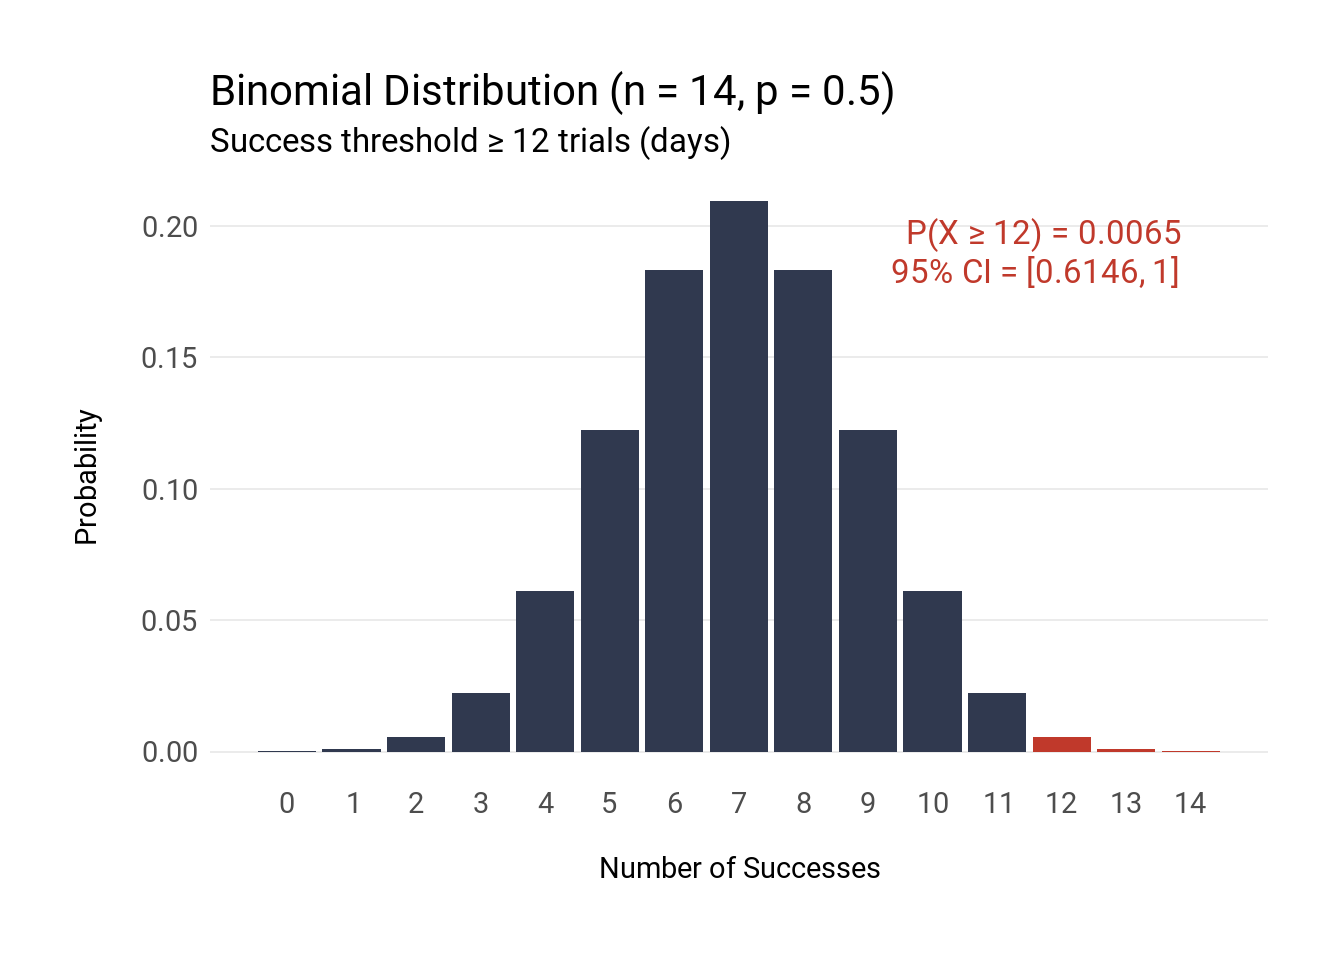
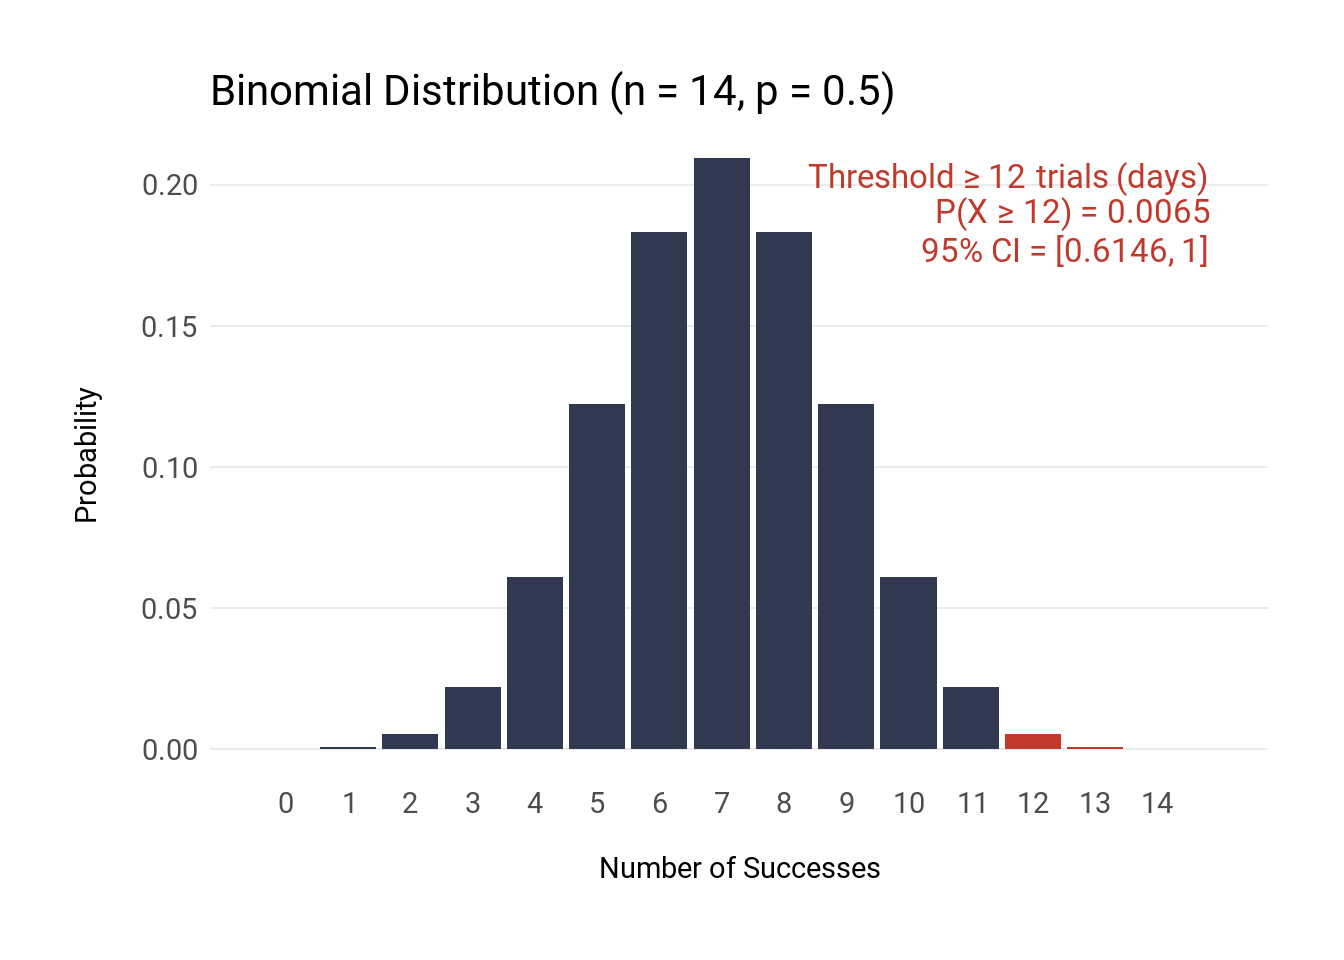
removed subtitle from visual

diff --git a/fordjohnson.dev/docs/notes/binomial-trend-detection/index.html b/fordjohnson.dev/docs/notes/binomial-trend-detection/index.html
@@ -255,32 +255,31 @@ probability of success
 <span id="cb3-31"><a href="#cb3-31" aria-hidden="true" tabindex="-1"></a>  <span class="fu">scale_x_continuous</span>(<span class="at">breaks =</span> <span class="dv">0</span><span class="sc">:</span>n) <span class="sc">+</span>  </span>
 <span id="cb3-32"><a href="#cb3-32" aria-hidden="true" tabindex="-1"></a>  <span class="fu">labs</span>(</span>
 <span id="cb3-33"><a href="#cb3-33" aria-hidden="true" tabindex="-1"></a>    <span class="at">title =</span> <span class="st">"Binomial Distribution (n = 14, p = 0.5)"</span>,</span>
-<span id="cb3-34"><a href="#cb3-34" aria-hidden="true" tabindex="-1"></a>    <span class="at">subtitle =</span> <span class="st">"Success threshold ≥ 12 trials (days)"</span>,</span>
-<span id="cb3-35"><a href="#cb3-35" aria-hidden="true" tabindex="-1"></a>    <span class="at">x =</span> <span class="st">"Number of Successes"</span>,</span>
-<span id="cb3-36"><a href="#cb3-36" aria-hidden="true" tabindex="-1"></a>    <span class="at">y =</span> <span class="st">"Probability"</span></span>
-<span id="cb3-37"><a href="#cb3-37" aria-hidden="true" tabindex="-1"></a>  ) <span class="sc">+</span></span>
-<span id="cb3-38"><a href="#cb3-38" aria-hidden="true" tabindex="-1"></a>  <span class="fu">theme_minimal</span>() <span class="sc">+</span></span>
-<span id="cb3-39"><a href="#cb3-39" aria-hidden="true" tabindex="-1"></a>  <span class="fu">theme</span>(</span>
-<span id="cb3-40"><a href="#cb3-40" aria-hidden="true" tabindex="-1"></a>    <span class="at">panel.grid.major.x =</span> <span class="fu">element_blank</span>(),</span>
-<span id="cb3-41"><a href="#cb3-41" aria-hidden="true" tabindex="-1"></a>    <span class="at">panel.grid.minor =</span> <span class="fu">element_blank</span>(),</span>
-<span id="cb3-42"><a href="#cb3-42" aria-hidden="true" tabindex="-1"></a>    <span class="at">plot.margin =</span> <span class="fu">margin</span>(<span class="dv">10</span>, <span class="dv">10</span>, <span class="dv">10</span>, <span class="dv">10</span>, <span class="st">"mm"</span>),</span>
-<span id="cb3-43"><a href="#cb3-43" aria-hidden="true" tabindex="-1"></a>    <span class="at">axis.text =</span> <span class="fu">element_text</span>(<span class="at">family =</span> font_1, <span class="at">size =</span> <span class="dv">7</span>),</span>
-<span id="cb3-44"><a href="#cb3-44" aria-hidden="true" tabindex="-1"></a>    <span class="at">axis.title =</span> <span class="fu">element_text</span>(<span class="at">family =</span> font_1, <span class="at">size =</span> <span class="dv">7</span>),</span>
-<span id="cb3-45"><a href="#cb3-45" aria-hidden="true" tabindex="-1"></a>    <span class="at">axis.title.x =</span> <span class="fu">element_text</span>(<span class="at">margin =</span> <span class="fu">margin</span>(<span class="dv">5</span>, <span class="dv">0</span>, <span class="dv">0</span>, <span class="dv">0</span>, <span class="st">'mm'</span>)),</span>
-<span id="cb3-46"><a href="#cb3-46" aria-hidden="true" tabindex="-1"></a>    <span class="at">axis.title.y =</span> <span class="fu">element_text</span>(<span class="at">margin =</span> <span class="fu">margin</span>(<span class="dv">0</span>, <span class="dv">5</span>, <span class="dv">0</span>, <span class="dv">0</span>, <span class="st">'mm'</span>)),</span>
-<span id="cb3-47"><a href="#cb3-47" aria-hidden="true" tabindex="-1"></a>    <span class="at">plot.title =</span> <span class="fu">element_text</span>(<span class="at">family =</span> font_1, <span class="at">size =</span> <span class="dv">10</span>),</span>
-<span id="cb3-48"><a href="#cb3-48" aria-hidden="true" tabindex="-1"></a>    <span class="at">plot.subtitle =</span> <span class="fu">element_text</span>(<span class="at">family =</span> font_1, <span class="at">size =</span> <span class="dv">8</span>)</span>
-<span id="cb3-49"><a href="#cb3-49" aria-hidden="true" tabindex="-1"></a>  ) <span class="sc">+</span></span>
-<span id="cb3-50"><a href="#cb3-50" aria-hidden="true" tabindex="-1"></a>  <span class="fu">annotate</span>(</span>
-<span id="cb3-51"><a href="#cb3-51" aria-hidden="true" tabindex="-1"></a>    <span class="at">geom =</span> <span class="st">'richtext'</span>,</span>
-<span id="cb3-52"><a href="#cb3-52" aria-hidden="true" tabindex="-1"></a>    <span class="at">x =</span> n,</span>
-<span id="cb3-53"><a href="#cb3-53" aria-hidden="true" tabindex="-1"></a>    <span class="at">y =</span> <span class="fu">max</span>(data<span class="sc">$</span>probability) <span class="sc">*</span> <span class="fl">0.9</span>,</span>
-<span id="cb3-54"><a href="#cb3-54" aria-hidden="true" tabindex="-1"></a>    <span class="at">label =</span> <span class="fu">paste0</span>(</span>
-<span id="cb3-55"><a href="#cb3-55" aria-hidden="true" tabindex="-1"></a>      <span class="st">"&lt;span style='color:#C0392B; font-size:8pt;font-family:Roboto;'&gt;"</span>,</span>
-<span id="cb3-56"><a href="#cb3-56" aria-hidden="true" tabindex="-1"></a>      <span class="st">"P(X ≥ "</span>, x_obs, <span class="st">") = "</span>, <span class="fu">round</span>(p_ge_x_obs, <span class="dv">4</span>), <span class="st">"&lt;br&gt;"</span>,</span>
-<span id="cb3-57"><a href="#cb3-57" aria-hidden="true" tabindex="-1"></a>      <span class="st">"95% CI = ["</span>, <span class="fu">round</span>(conf_int[<span class="dv">1</span>], <span class="dv">4</span>), <span class="st">", "</span>, <span class="fu">round</span>(conf_int[<span class="dv">2</span>], <span class="dv">4</span>), <span class="st">"]&lt;/span&gt;"</span>),</span>
-<span id="cb3-58"><a href="#cb3-58" aria-hidden="true" tabindex="-1"></a>    <span class="at">hjust =</span> <span class="dv">1</span>, <span class="at">fill =</span> <span class="cn">NA</span>, <span class="at">label.color =</span> <span class="cn">NA</span></span>
-<span id="cb3-59"><a href="#cb3-59" aria-hidden="true" tabindex="-1"></a>  )</span></code><button title="Copy to Clipboard" class="code-copy-button"><i class="bi"></i></button></pre></div>
+<span id="cb3-34"><a href="#cb3-34" aria-hidden="true" tabindex="-1"></a>    <span class="at">x =</span> <span class="st">"Number of Successes"</span>,</span>
+<span id="cb3-35"><a href="#cb3-35" aria-hidden="true" tabindex="-1"></a>    <span class="at">y =</span> <span class="st">"Probability"</span></span>
+<span id="cb3-36"><a href="#cb3-36" aria-hidden="true" tabindex="-1"></a>  ) <span class="sc">+</span></span>
+<span id="cb3-37"><a href="#cb3-37" aria-hidden="true" tabindex="-1"></a>  <span class="fu">theme_minimal</span>() <span class="sc">+</span></span>
+<span id="cb3-38"><a href="#cb3-38" aria-hidden="true" tabindex="-1"></a>  <span class="fu">theme</span>(</span>
+<span id="cb3-39"><a href="#cb3-39" aria-hidden="true" tabindex="-1"></a>    <span class="at">panel.grid.major.x =</span> <span class="fu">element_blank</span>(),</span>
+<span id="cb3-40"><a href="#cb3-40" aria-hidden="true" tabindex="-1"></a>    <span class="at">panel.grid.minor =</span> <span class="fu">element_blank</span>(),</span>
+<span id="cb3-41"><a href="#cb3-41" aria-hidden="true" tabindex="-1"></a>    <span class="at">plot.margin =</span> <span class="fu">margin</span>(<span class="dv">10</span>, <span class="dv">10</span>, <span class="dv">10</span>, <span class="dv">10</span>, <span class="st">"mm"</span>),</span>
+<span id="cb3-42"><a href="#cb3-42" aria-hidden="true" tabindex="-1"></a>    <span class="at">axis.text =</span> <span class="fu">element_text</span>(<span class="at">family =</span> font_1, <span class="at">size =</span> <span class="dv">7</span>),</span>
+<span id="cb3-43"><a href="#cb3-43" aria-hidden="true" tabindex="-1"></a>    <span class="at">axis.title =</span> <span class="fu">element_text</span>(<span class="at">family =</span> font_1, <span class="at">size =</span> <span class="dv">7</span>),</span>
+<span id="cb3-44"><a href="#cb3-44" aria-hidden="true" tabindex="-1"></a>    <span class="at">axis.title.x =</span> <span class="fu">element_text</span>(<span class="at">margin =</span> <span class="fu">margin</span>(<span class="dv">5</span>, <span class="dv">0</span>, <span class="dv">0</span>, <span class="dv">0</span>, <span class="st">'mm'</span>)),</span>
+<span id="cb3-45"><a href="#cb3-45" aria-hidden="true" tabindex="-1"></a>    <span class="at">axis.title.y =</span> <span class="fu">element_text</span>(<span class="at">margin =</span> <span class="fu">margin</span>(<span class="dv">0</span>, <span class="dv">5</span>, <span class="dv">0</span>, <span class="dv">0</span>, <span class="st">'mm'</span>)),</span>
+<span id="cb3-46"><a href="#cb3-46" aria-hidden="true" tabindex="-1"></a>    <span class="at">plot.title =</span> <span class="fu">element_text</span>(<span class="at">family =</span> font_1, <span class="at">size =</span> <span class="dv">10</span>)</span>
+<span id="cb3-47"><a href="#cb3-47" aria-hidden="true" tabindex="-1"></a>  ) <span class="sc">+</span></span>
+<span id="cb3-48"><a href="#cb3-48" aria-hidden="true" tabindex="-1"></a>  <span class="fu">annotate</span>(</span>
+<span id="cb3-49"><a href="#cb3-49" aria-hidden="true" tabindex="-1"></a>    <span class="at">geom =</span> <span class="st">'richtext'</span>,</span>
+<span id="cb3-50"><a href="#cb3-50" aria-hidden="true" tabindex="-1"></a>    <span class="at">x =</span> n<span class="sc">+</span><span class="dv">1</span>,</span>
+<span id="cb3-51"><a href="#cb3-51" aria-hidden="true" tabindex="-1"></a>    <span class="at">y =</span> <span class="fu">max</span>(data<span class="sc">$</span>probability) <span class="sc">*</span> <span class="fl">0.9</span>,</span>
+<span id="cb3-52"><a href="#cb3-52" aria-hidden="true" tabindex="-1"></a>    <span class="at">label =</span> <span class="fu">paste0</span>(</span>
+<span id="cb3-53"><a href="#cb3-53" aria-hidden="true" tabindex="-1"></a>      <span class="st">"&lt;span style='color:#C0392B; font-size:8pt;font-family:Roboto;'&gt;"</span>,</span>
+<span id="cb3-54"><a href="#cb3-54" aria-hidden="true" tabindex="-1"></a>      <span class="st">"Threshold ≥ 12 trials (days)"</span>, <span class="st">"&lt;br&gt;"</span>,</span>
+<span id="cb3-55"><a href="#cb3-55" aria-hidden="true" tabindex="-1"></a>      <span class="st">"P(X ≥ "</span>, x_obs, <span class="st">") = "</span>, <span class="fu">round</span>(p_ge_x_obs, <span class="dv">4</span>), <span class="st">"&lt;br&gt;"</span>,</span>
+<span id="cb3-56"><a href="#cb3-56" aria-hidden="true" tabindex="-1"></a>      <span class="st">"95% CI = ["</span>, <span class="fu">round</span>(conf_int[<span class="dv">1</span>], <span class="dv">4</span>), <span class="st">", "</span>, <span class="fu">round</span>(conf_int[<span class="dv">2</span>], <span class="dv">4</span>), <span class="st">"]&lt;/span&gt;"</span>),</span>
+<span id="cb3-57"><a href="#cb3-57" aria-hidden="true" tabindex="-1"></a>    <span class="at">hjust =</span> <span class="dv">1</span>, <span class="at">fill =</span> <span class="cn">NA</span>, <span class="at">label.color =</span> <span class="cn">NA</span></span>
+<span id="cb3-58"><a href="#cb3-58" aria-hidden="true" tabindex="-1"></a>  )</span></code><button title="Copy to Clipboard" class="code-copy-button"><i class="bi"></i></button></pre></div>
 </details>
 </div>
 </div>
@@ -740,7 +739,7 @@ window.document.addEventListener("DOMContentLoaded", function (event) {
     </div>
   </div>
 </footer>
-<script>var lightboxQuarto = GLightbox({"closeEffect":"zoom","descPosition":"bottom","loop":false,"openEffect":"zoom","selector":".lightbox"});
+<script>var lightboxQuarto = GLightbox({"loop":false,"openEffect":"zoom","selector":".lightbox","closeEffect":"zoom","descPosition":"bottom"});
 (function() {
   let previousOnload = window.onload;
   window.onload = () => {
